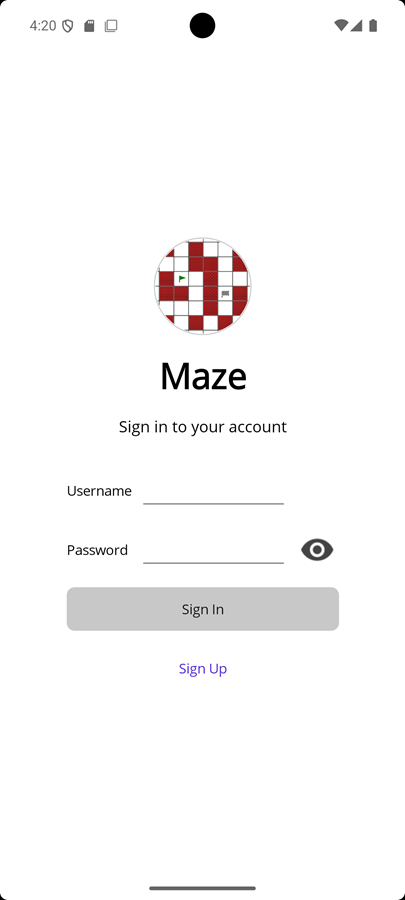
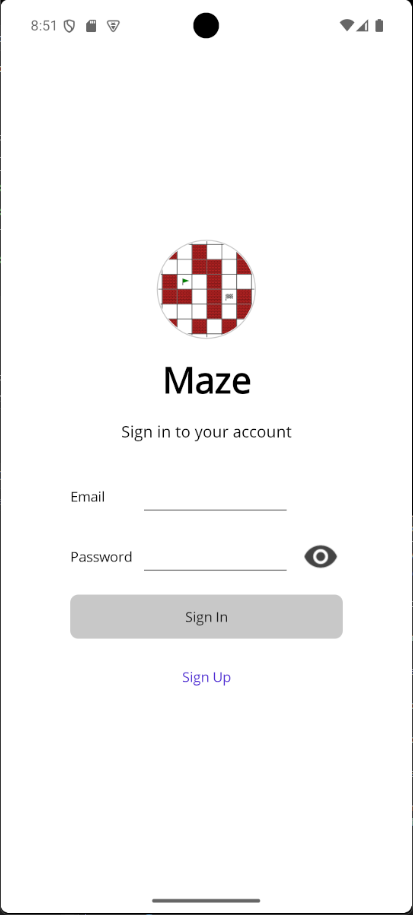
Update README and screenshots for email-based login

diff --git a/src/rust/maze_web_server/README.md b/src/rust/maze_web_server/README.md
@@ -173,6 +173,9 @@ On first run, if no admin user exists in the data store, the server automaticall
 | Field | Value |
 |:------|:------|
 | Username | `admin` |
+| Email | `admin@maze.local` |
 | Password | `Admin1!` |
 
-> **Important:** The default password is intentionally simple. **Change it immediately after first login** using the self-service endpoint (`PUT /api/v1/users/me/password`) or the admin user-management API (`PUT /api/v1/users/{id}`).
+Sign in using the **email address** and password. The username is used for display purposes only.
+
+> **Important:** The default password is intentionally simple. **Change it immediately after first sign-in** using the self-service endpoint (`PUT /api/v1/users/me/password`) or the admin user-management API (`PUT /api/v1/users/{id}`).

diff --git a/src/react/maze_web_server/README.md b/src/react/maze_web_server/README.md
@@ -69,7 +69,7 @@ To run with Mock Service Worker (MSW) instead (no Rust server required):
 npm run dev:mock
 ```
 
-In mock mode the login handler accepts any username and password.
+In mock mode the login handler accepts any email address and password.
 
 ## Production build
 
